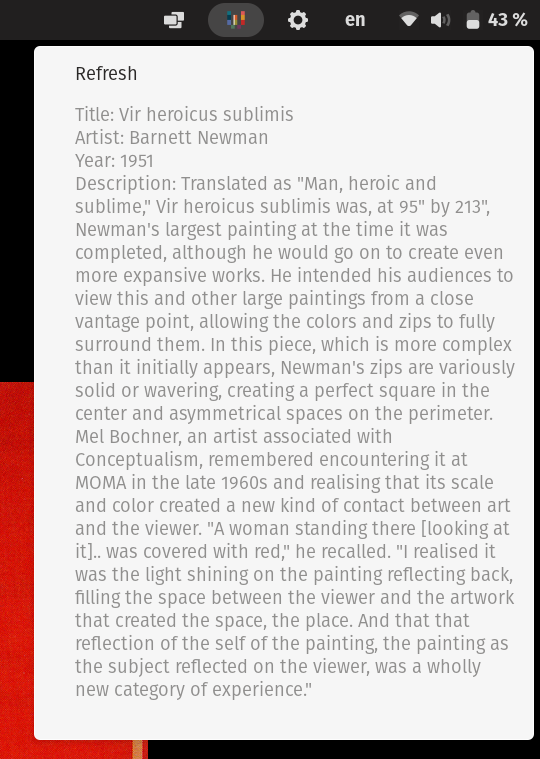
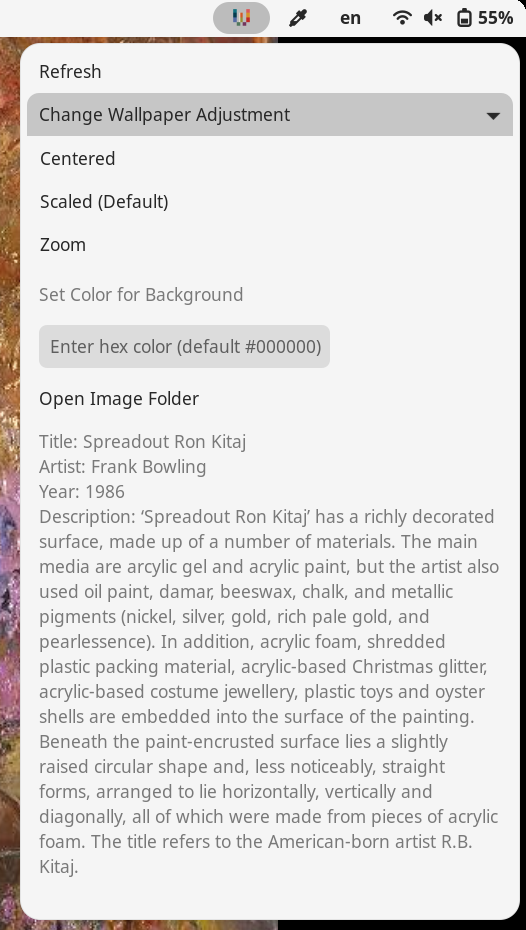
new features added
added wallpaper adjustment
added background color adjustment
added open image folder

diff --git a/wikiartwallpaper@cankurttekin/extension.js b/wikiartwallpaper@cankurttekin/extension.js
@@ -11,11 +11,17 @@ import * as PanelMenu from 'resource:///org/gnome/shell/ui/panelMenu.js';
 import * as PopupMenu from 'resource:///org/gnome/shell/ui/popupMenu.js';
 import * as Main from 'resource:///org/gnome/shell/ui/main.js';
 
+const TrayIcon = 'wikiartwallpaper';
+const wallpaperSettings = new Gio.Settings({ schema: 'org.gnome.desktop.background' });
+let userPicturesDir = GLib.get_user_special_dir(GLib.UserDirectory.DIRECTORY_PICTURES);
+let WikiArtWallpaperDir = (userPicturesDir?userPicturesDir:userDesktopDir) + '/WikiArtWallpaper/';
 var currentImageUrl = '';
 var currentImageDescription = '';
+var currentImageTitle = '';
+var wallpaperAdjustment = 'scaled';
+let color = '#000000';
 var timeoutId = null;
 var myExtension = null;
-const TrayIcon = 'wikiartwallpaper';
 
 const WikiArtWallpaper = GObject.registerClass(
     class WikiArtWallpaper extends PanelMenu.Button {
@@ -38,8 +44,84 @@ const WikiArtWallpaper = GObject.registerClass(
             });
             this.menu.addMenuItem(this.refreshMenuItem);
 
-            // Create a menu item to display the current image URL and title
-            this.titleMenuItem = new PopupMenu.PopupMenuItem("Info about artwork will be displayed here when refreshed.", { reactive: false });
+            // Create menu items for wallpaper adjustments
+            this.centeredMenuItem = new PopupMenu.PopupMenuItem("Centered");
+            this.centeredMenuItem.connect('activate', () => {
+                wallpaperAdjustment = 'centered';
+                setWallpaperAdjustment(wallpaperAdjustment);
+            });
+            //this.menu.addMenuItem(this.centeredMenuItem);
+
+            this.scaledMenuItem = new PopupMenu.PopupMenuItem("Scaled (Default)");
+            this.scaledMenuItem.connect('activate', () => {
+                wallpaperAdjustment = 'scaled';
+                setWallpaperAdjustment(wallpaperAdjustment);
+            });
+            //this.menu.addMenuItem(this.scaledMenuItem);
+
+            this.zoomMenuItem = new PopupMenu.PopupMenuItem("Zoom");
+            this.zoomMenuItem.connect('activate', () => {
+                wallpaperAdjustment = 'zoom';
+                setWallpaperAdjustment(wallpaperAdjustment);
+            });
+            //this.menu.addMenuItem(this.zoomMenuItem);
+
+
+
+            this.subMenu = new PopupMenu.PopupSubMenuMenuItem('Change Wallpaper Adjustment');
+            [this.centeredMenuItem, this.scaledMenuItem, this.zoomMenuItem]
+                .forEach(e => this.subMenu.menu.addMenuItem(e));
+            this.menu.addMenuItem(this.subMenu);  
+              
+              
+            this.setColorButton = new St.Button({
+                label: "Set Color for Background",
+            });
+            
+            let setColorButtonMenuItem = new PopupMenu.PopupBaseMenuItem({ reactive: false });
+            setColorButtonMenuItem.add_child(this.setColorButton);
+            this.menu.addMenuItem(setColorButtonMenuItem);
+            
+              // Create an input field for hex color
+            this.colorEntry = new St.Entry({
+                style_class: 'color-entry',
+                can_focus: true,
+                hint_text: 'Enter hex color (default #000000)',
+            });
+              
+              let colorEntryMenuItem = new PopupMenu.PopupBaseMenuItem({ reactive: false });
+            colorEntryMenuItem.add_child(this.colorEntry);
+            this.menu.addMenuItem(colorEntryMenuItem);
+
+            // Create a Folder button
+            this.folderMenuItem = new PopupMenu.PopupMenuItem("Open Image Folder");
+            this.menu.addMenuItem(this.folderMenuItem);
+            
+            this.folderMenuItem.connect('activate', () => {
+                openImageFolder();
+            });
+            
+            /*
+            this.setColorButton.connect('clicked', () => {
+                if(!this.colorEntry.get_text() || colorEntry.get_text() === '') {
+                    console.log('no color provided');
+                }
+                console.log(typeof this.colorEntry.get_text());
+                color = this.colorEntry.get_text();
+                setBackgroundColor(color);
+            });
+*/
+            
+            
+            
+            // Connect the activate signal to set the background color
+            this.colorEntry.clutter_text.connect('activate', () => {
+                let color = this.colorEntry.get_text();
+                setBackgroundColor(color);
+            });
+
+            // Create a menu item to display the current image description
+            this.titleMenuItem = new PopupMenu.PopupMenuItem("Description of the current WikiArt Artwork will be displayed here after refresh.", { reactive: false });
 
             this.titleMenuItem.label.clutter_text.line_wrap = true;
 
@@ -52,10 +134,11 @@ const WikiArtWallpaper = GObject.registerClass(
         async _refreshWallpaper() {
             let myUrl = getArtworkApiUrl();
             try {
-                let { url: myImageUrl, title: myImageDescription } = await getWallpaperUrl(myUrl);
-                downloadAndSetWallpaper(myImageUrl);
+                let { url: myImageUrl, title: myImageTitle, description: myImageDescription } = await getWallpaperUrl(myUrl);
+                downloadAndSetWallpaper(myImageUrl, myImageTitle);
                 currentImageUrl = myImageUrl;
                 currentImageDescription = myImageDescription;
+                currentImageTitle = myImageTitle;
                 this._updateMenuItems();
             } catch (error) {
                 console.log('Failed to get wallpaper URL: ' + error);
@@ -68,27 +151,39 @@ const WikiArtWallpaper = GObject.registerClass(
     }
 );
 
+// 
+function openImageFolder() {
+    Gio.AppInfo.launch_default_for_uri('file:///' + WikiArtWallpaperDir, null);
+}
+
+function setBackgroundColor(color) {
+    //let wallpaperSettings = new Gio.Settings({ schema: 'org.gnome.desktop.background' });
+    console.log(color);
+    wallpaperSettings.set_string('primary-color', color);
+}
+
 function getArtworkApiUrl() {
     let randomIndex = Math.floor(Math.random() * 3810) + 1; // fix this later
     let artworkApi = `https://www.wikiart.org/en/app/home/ArtworkOfTheDay?direction=next&index=${randomIndex}`;
     return artworkApi;
 }
 
-function downloadAndSetWallpaper(urlToDownload) {
+function downloadAndSetWallpaper(urlToDownload, titleToSetFileName) {
+    console.log(titleToSetFileName);
     // Download the image
-    GLib.spawn_async(null, ['wget', '-O', '/tmp/wallpaper.jpg', urlToDownload], null, GLib.SpawnFlags.SEARCH_PATH, null);
+    GLib.spawn_async(null, ['wget', '-O', WikiArtWallpaperDir + '/' + titleToSetFileName + '.jpg', urlToDownload], null, GLib.SpawnFlags.SEARCH_PATH, null);
 
     timeoutId = GLib.timeout_add_seconds(GLib.PRIORITY_DEFAULT, 5, () => {
         // Set the wallpaper
-        let wallpaperSettings = new Gio.Settings({ schema: 'org.gnome.desktop.background' });
-        wallpaperSettings.set_string('picture-uri', 'file:///tmp/wallpaper.jpg');
-        setWallpaperAdjustment('centered');
+        //let wallpaperSettings = new Gio.Settings({ schema: 'org.gnome.desktop.background' });
+        wallpaperSettings.set_string('picture-uri', 'file:///' + WikiArtWallpaperDir + '/' + titleToSetFileName + '.jpg');
+        setWallpaperAdjustment(wallpaperAdjustment);
         return GLib.SOURCE_REMOVE;
     });
 }
 
 function setWallpaperAdjustment(adjustmentMode) {
-    let wallpaperSettings = new Gio.Settings({ schema: 'org.gnome.desktop.background' });
+    //let wallpaperSettings = new Gio.Settings({ schema: 'org.gnome.desktop.background' });
     wallpaperSettings.set_string('picture-options', adjustmentMode);
 }
 
@@ -123,7 +218,8 @@ function getWallpaperUrl(url) {
                 imageDesc += 'Year: ' + json.CompletitionYear + '\n';
                 imageDesc += 'Description: ' + json.Description + '\n';
                 imageDesc = convertHtmlToPlainText(imageDesc);
-                resolve({ url: imageUrl, title: imageDesc });
+                let imageTitle = json.Title;
+                resolve({ url: imageUrl, title: imageTitle, description: imageDesc });
             } else {
                 reject('ImageDescription, Url or Title property is missing');
             }
@@ -166,4 +262,3 @@ export default class WikiArtWallpaperExtension extends Extension {
         }
     }
 }
-

diff --git a/README.md b/README.md
@@ -17,7 +17,7 @@ This extension supports GNOME Shell `3.4?` to `46`
 
 |Branch                   |Version|Compatible GNOME version|
 |-------------------------|:-----:|------------------------|
-| master                  |    4  | GNOME 45 & 46          |
+| master                  |    5  | GNOME 45 & 46          |
 | gnome-shell-before-45   |    3  | GNOME 3.4 -> 44        |
 
 _Tested on GNOME 42 & 46._
@@ -26,9 +26,13 @@ _Tested on GNOME 42 & 46._
 You can get this extension from [extensions.gnome.org](https://extensions.gnome.org/extension/7071/wikiart-wallpaper/) or you can download the files and copy wikiartwallpaper@cankurttekin to your `/.local/share/gnome-shell/extensions/` directory.
 
 # Screenshots & Features
-![til](/wikiart-extension-demo.gif)
-<br>
 ![Screenshot_1](/screenshots/screenshot.png)
+<br>
+![Screenshot_1](/screenshots/menu.png)
+<br>
+![Screenshot_1](/screenshots/refreshed.png)
+<br>
+![til](/wikiart-extension-demo.gif)
 
 # Contribute
 You can help with development by contributing code, testing on other GNOME versions and reporting issues.
